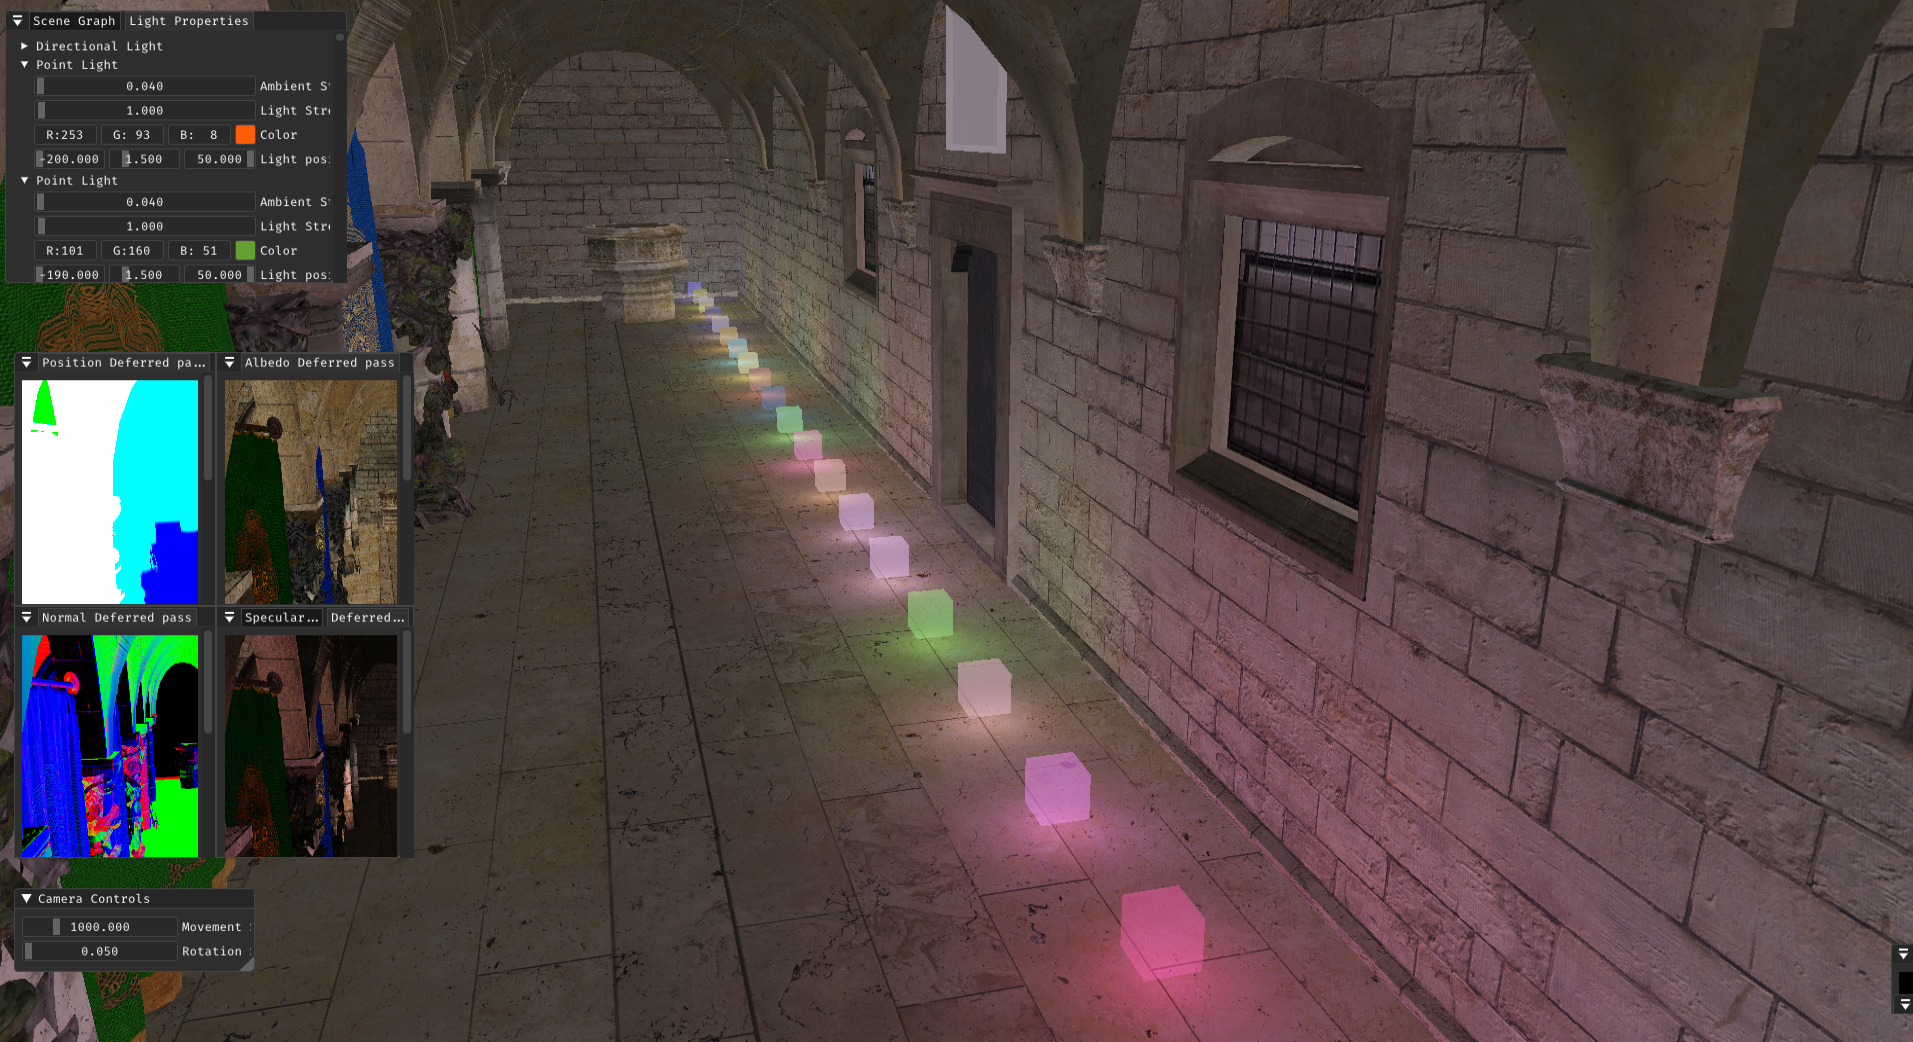
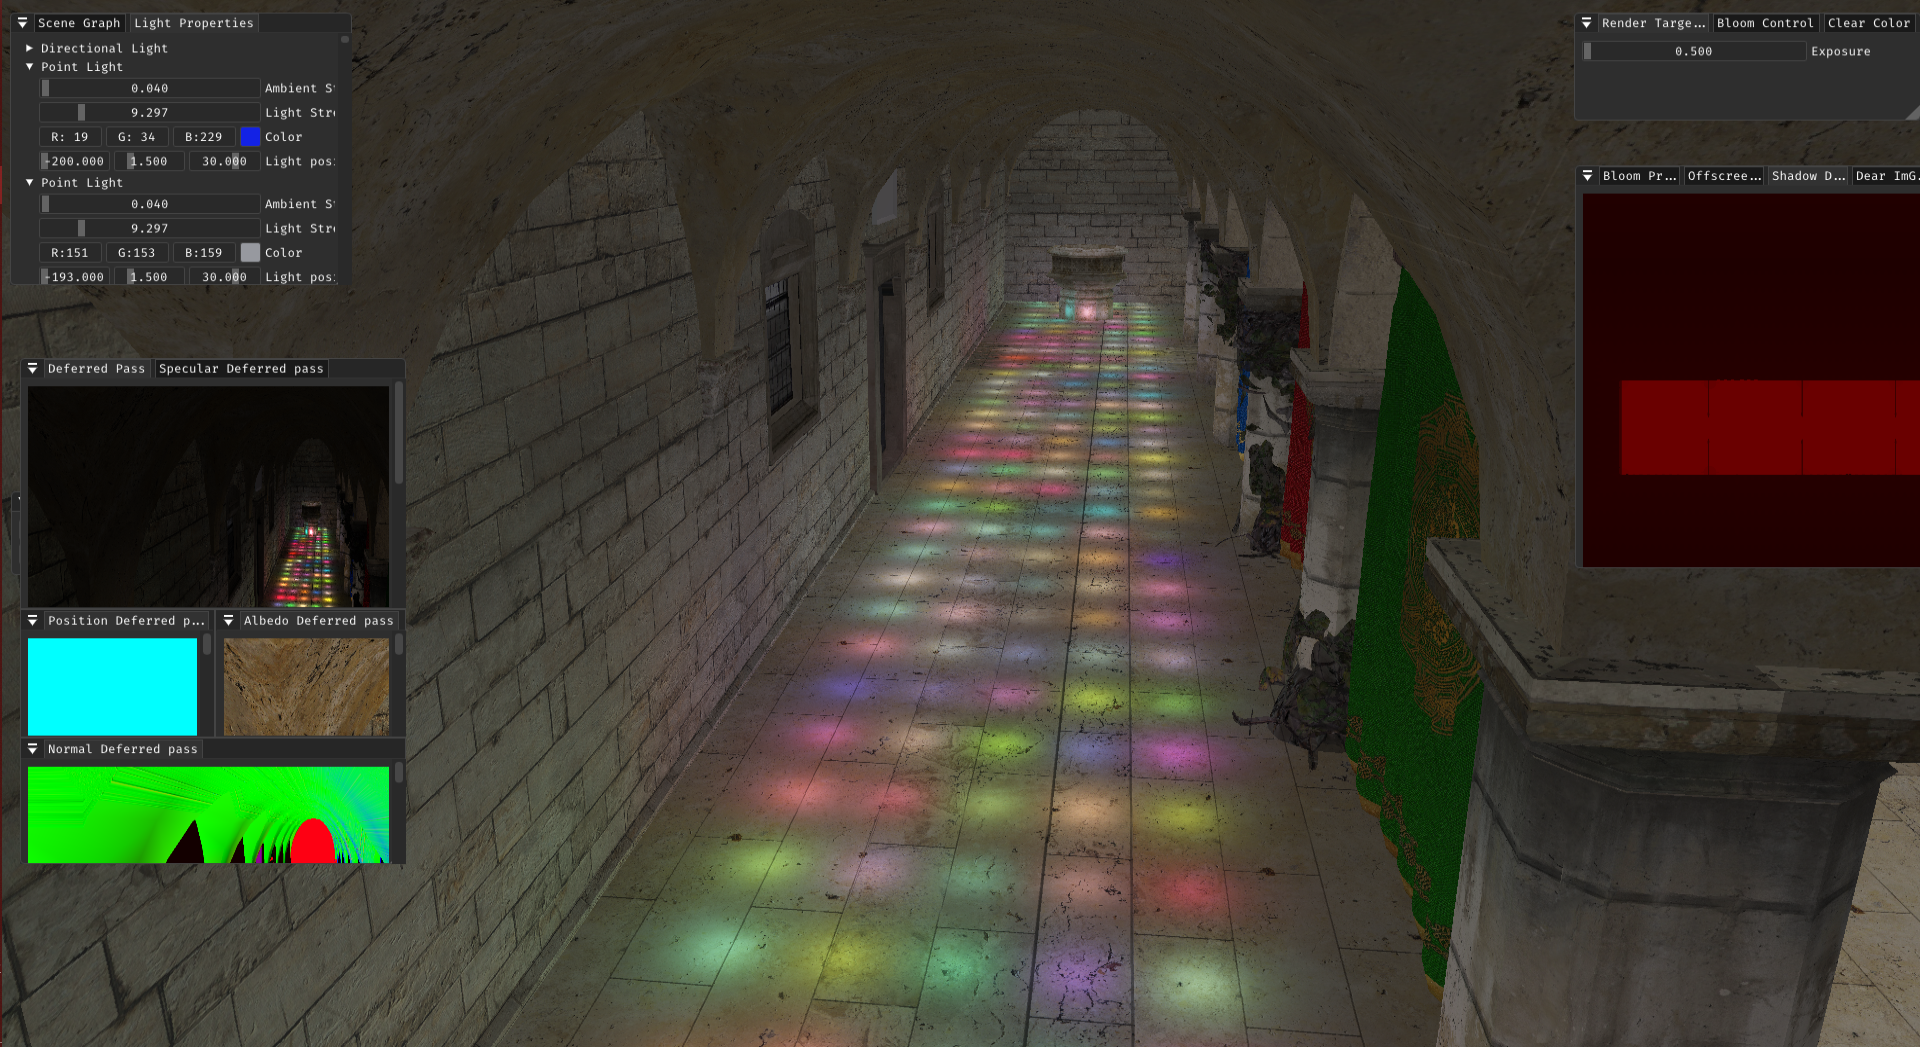
Basic FXAA implementation.

diff --git a/SandBox/DeferredShading.cpp b/SandBox/DeferredShading.cpp
@@ -103,17 +103,17 @@ namespace rad
 
 		RenderGameObjects();
 
-		m_LightShader.Bind(m_DeviceContext.Get());
-		m_PerFrameConstantBuffer.BindVS(m_DeviceContext.Get());
+		//m_LightShader.Bind(m_DeviceContext.Get());
+		//m_PerFrameConstantBuffer.BindVS(m_DeviceContext.Get());
 
 		int index = 0;
-		for (auto& lightCubes : m_LightCubes)
-		{
-			lightCubes.m_PerObjectConstantBuffer.BindVS(m_DeviceContext.Get(), 1);
-			m_PointLights[index].m_LightConstantBuffer.BindPS(m_DeviceContext.Get());
-			lightCubes.Draw(m_DeviceContext.Get());
-			index++;
-		}
+		//for (auto& lightCubes : m_LightCubes)
+		//{
+		//	lightCubes.m_PerObjectConstantBuffer.BindVS(m_DeviceContext.Get(), 1);
+		//	m_PointLights[index].m_LightConstantBuffer.BindPS(m_DeviceContext.Get());
+		//	lightCubes.Draw(m_DeviceContext.Get());
+		//	index++;
+		//}
 
 
 		// NOTE : Setting shader resource at slot 4 does cause warnings. This workaround fixes it.
@@ -260,13 +260,14 @@ namespace rad
 
 		float xPosition = -200.0f;
 		float zPosition = 30.0f;
+		float yPosition = 0.50f;
 
 		for (int i = 0; i < NUMBER_OF_POINT_LIGHTS; i++)
 		{
-			if (i == 100 || i == 200)
+			if (i == 100 || i == 200 || i == 300 || i == 400)
 			{
 				xPosition = -200.0f;
-				zPosition += 10.0f;
+				zPosition += 5.0f;
 			}
 
 
@@ -278,22 +279,26 @@ namespace rad
 			pt.m_LightConstantBuffer.m_Data.lightColor.z = (float)rand() / RAND_MAX;
 
 			pt.m_LightConstantBuffer.m_Data.lightDirection.x = xPosition;
-			pt.m_LightConstantBuffer.m_Data.lightDirection.y = 5.0f;
+			pt.m_LightConstantBuffer.m_Data.lightDirection.y = yPosition;
 			pt.m_LightConstantBuffer.m_Data.lightDirection.z = zPosition;
 
 			m_PointLights[i] = pt;
-			m_LightCubes[i].Init(m_Device.Get(), m_DeviceContext.Get(), L"../Assets/Models/Cube/glTF/Cube.gltf");
 
-			m_LightCubes[i].m_Transform.translation.x = xPosition;
-			m_LightCubes[i].m_Transform.translation.y = 50.0f;
-			m_LightCubes[i].m_Transform.translation.z = zPosition;
+			// Due to the scaling bug in Model.cpp, I am currently not rendering any light cubes.
+			// To have a visual representation of the light cubes, some of the code is to be uncommented.
+			// 
+			//m_LightCubes[i].Init(m_Device.Get(), m_DeviceContext.Get(), L"../Assets/Models/Cube/glTF/Cube.gltf");
+			//
+			//m_LightCubes[i].m_Transform.translation.x = xPosition;
+			//m_LightCubes[i].m_Transform.translation.y = 50.0f;
+			//m_LightCubes[i].m_Transform.translation.z = zPosition;
 
 
-			xPosition += 10.0f;
+			xPosition += 7.0f;
 		}
 
 
-		m_LightShader.Init(m_Device.Get(), InputLayoutType::DefaultInput, L"../Shaders/TestVertex.hlsl", L"../Shaders/LightPixel.hlsl");
+		//m_LightShader.Init(m_Device.Get(), InputLayoutType::DefaultInput, L"../Shaders/TestVertex.hlsl", L"../Shaders/LightPixel.hlsl");
 	}
 
 	uint32_t DeferredShading::GetWidth() const
@@ -465,8 +470,8 @@ namespace rad
 		{
 			m_PointLights[i].UpdateData();
 			m_PointLights[i].Update(m_DeviceContext.Get());
-			m_LightCubes[i].m_Transform.translation = m_PointLights[i].m_LightConstantBuffer.m_Data.lightDirection;
-			m_LightCubes[i].UpdateTransformComponent(m_DeviceContext.Get());
+			//m_LightCubes[i].m_Transform.translation = m_PointLights[i].m_LightConstantBuffer.m_Data.lightDirection;
+			//m_LightCubes[i].UpdateTransformComponent(m_DeviceContext.Get());
 		}
 	}
 

diff --git a/SandBox/SandBox.cpp b/SandBox/SandBox.cpp
@@ -198,6 +198,10 @@ namespace rad
 
 		m_BlurRT.Init(m_Device.Get(), m_Width / 4, m_Height / 4);
 
+		m_FXAART.Init(m_Device.Get(), m_Width, m_Height);
+
+		m_FXAAShaderModule.Init(m_Device.Get(), InputLayoutType::RenderTargetInput, L"../Shaders/FXAAVertex.hlsl", L"../Shaders/FXAAPixel.hlsl");
+
 
 		int previousPassWidth = m_Width;
 		int previousPassHeight = m_Height;
@@ -592,7 +596,6 @@ namespace rad
 
 		m_PostProcessRT.Update(m_DeviceContext.Get());
 
-
 		// Pass the offscreen RT and bloom RT. In future this will be done in another render pass (Post Process pass).
 		ID3D11ShaderResourceView* srvs[] = 
 		{
@@ -605,14 +608,25 @@ namespace rad
 
 		m_PostProcessRT.Draw(m_DeviceContext.Get());
 
-		// Final pass.
-		m_RenderTargetShaderModule.Bind(m_DeviceContext.Get());
+		// FXAA Pass.
+		m_FXAAShaderModule.Bind(m_DeviceContext.Get());
 		
+		m_DeviceContext->OMSetRenderTargets(1, m_FXAART.m_RTV.GetAddressOf(), nullptr);
+		m_DeviceContext->OMSetDepthStencilState(m_DepthStencilState.Get(), 0u);
+
+		m_DeviceContext->PSSetShaderResources(0, 1, m_PostProcessRT.m_SRV.GetAddressOf());
+		m_WrapSampler.Bind(m_DeviceContext.Get());
+
+		m_DeviceContext->DrawIndexed(6, 0, 0);
+
+		// Render to the swap chains back buffer RT after applying the FXAA filter.
+		m_RenderTargetShaderModule.Bind(m_DeviceContext.Get());
+
 		m_DeviceContext->OMSetRenderTargets(1, m_RenderTargetView.GetAddressOf(), nullptr);
 		m_DeviceContext->OMSetDepthStencilState(m_DepthStencilState.Get(), 0u);
 
 
-		m_DeviceContext->PSSetShaderResources(0, 1, m_PostProcessRT.m_SRV.GetAddressOf());
+		m_DeviceContext->PSSetShaderResources(0, 1, m_FXAART.m_SRV.GetAddressOf());
 		m_ClampSampler.Bind(m_DeviceContext.Get());
 
 		m_DeviceContext->DrawIndexed(6, 0, 0);

diff --git a/Engine/RadiumEngine/Core/Main.cpp b/Engine/RadiumEngine/Core/Main.cpp
@@ -1,9 +1,9 @@
 #include "Application.hpp"
 								
-#include "../SandBox/DeferredShading.hpp"
+#include "../SandBox/SandBox.hpp"
 
 int WINAPI wWinMain(HINSTANCE instance, [[maybe_unused]] HINSTANCE prevInstance, [[maybe_unused]] LPWSTR commandLine, [[maybe_unused]] INT commandShow)		
 {																																							
-	std::shared_ptr<rad::DeferredShading> engine = std::make_shared<rad::DeferredShading>(L"RadiumEngine", 1920, 1080);
+	std::shared_ptr<rad::SandBox> engine = std::make_shared<rad::SandBox>(L"RadiumEngine", 1920, 1080);
 	return rad::Application::Run(engine, instance);																											
 }																																							

diff --git a/SandBox/SandBox.hpp b/SandBox/SandBox.hpp
@@ -109,6 +109,8 @@ namespace rad
 		ShaderModule m_PostProcessShaderModule{};
 		ShaderModule m_SkyBoxShaderModule{};
 
+		ShaderModule m_FXAAShaderModule{};
+
 		std::unordered_map<std::wstring, Model> m_GameObjects;
 		Model m_SkyBoxModel;
 		SkyBox m_SkyBox;
@@ -120,6 +122,8 @@ namespace rad
 		RenderTarget m_BloomPreFilterRT;
 		RenderTarget m_BloomPassRTs[BLOOM_PASSES];
 		RenderTarget m_BlurRT;
+
+		RenderTarget m_FXAART;
 
 		TextureSampler m_WrapSampler;
 		TextureSampler m_ClampSampler;

diff --git a/SandBox/DeferredShading.hpp b/SandBox/DeferredShading.hpp
@@ -66,7 +66,7 @@ namespace rad
 		// To be != 1 only when Guassian blur is implemented.
 		static constexpr uint32_t BLUR_PASSES = 1;
 
-		static constexpr uint32_t NUMBER_OF_POINT_LIGHTS = 300;
+		static constexpr uint32_t NUMBER_OF_POINT_LIGHTS = 500;
 
 		// Viewport and window variables.
 		uint32_t m_Width;

diff --git a/README.md b/README.md
@@ -12,6 +12,7 @@ Made for learning and implementing modern graphics techniques in a quick and eas
 * Deferred shading
 * Normal mapping
 * HDR lighting and tone mapping
+* FXAA
 * Simple UI to configure shader parameters and preview output of various Render Passes.
 
 # Showcase
@@ -24,7 +25,8 @@ Made for learning and implementing modern graphics techniques in a quick and eas
 ![](Assets/Screenshots/RadiumEngine-DiffuseIBLTest.png)
 
 > Deferred Shading
-![](Assets/Screenshots/RadiumEngine-DeferredShading-2.png) 
+![](Assets/Screenshots/RadiumEngine-DeferredShading-1.png) 
+![](Assets/Screenshots/RadiumEngine-DeferredShading.png)
 
 
 # Dependencies used
